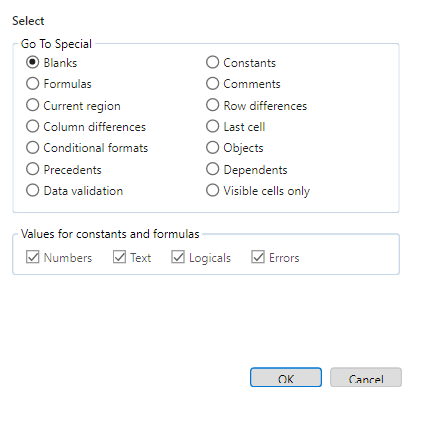
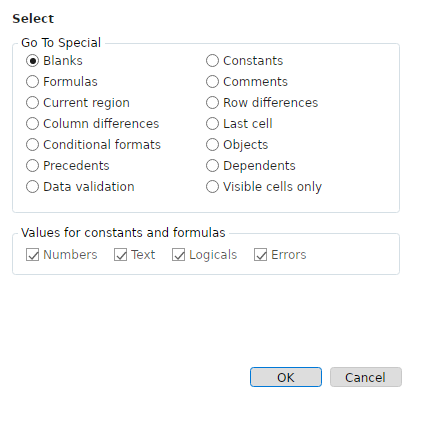
fix(freex): align go to special avalonia dialog

diff --git a/tests/FreeX.App.Avalonia.Tests/DialogVisualParitySourceTests.cs b/tests/FreeX.App.Avalonia.Tests/DialogVisualParitySourceTests.cs
@@ -24,11 +24,12 @@ public sealed class DialogVisualParitySourceTests
         source.Should().Contain("numbersBox.Opacity = enabled ? 1 : 0.7;");
         source.Should().Contain("AvaloniaCompactDialogChrome.ApplyCompactRadioButton(button, AvaloniaCompactDialogChrome.WindowsStyle);");
         source.Should().Contain("AvaloniaCompactDialogChrome.ApplyCompactCheckBox(numbersBox, AvaloniaCompactDialogChrome.WindowsStyle);");
-        source.Should().Contain("AvaloniaCompactDialogChrome.ApplyGroupBox(availableGroup);");
-        source.Should().Contain("AvaloniaCompactDialogChrome.ApplyGroupBox(valueTypeGroup);");
-        source.Should().Contain("Margin = new Thickness(0, 0, 0, 12),");
-        source.Should().Contain("Padding = new Thickness(8, 1, 8, 6),");
-        source.Should().Contain("Padding = new Thickness(0, 0, 0, 3),");
+        source.Should().Contain("AvaloniaCompactDialogChrome.ApplyGroupBox(availableGroup, borderBrush: Brush(213, 223, 229));");
+        source.Should().Contain("AvaloniaCompactDialogChrome.ApplyGroupBox(valueTypeGroup, borderBrush: Brush(213, 223, 229));");
+        source.Should().Contain("Margin = new Thickness(0, 3, 0, 13),");
+        source.Should().Contain("Padding = new Thickness(8, 1, 8, 9),");
+        source.Should().Contain("Padding = new Thickness(0, 0, 0, 4),");
+        source.Should().Contain("Spacing = 12,");
         source.Should().Contain("Margin = new Thickness(0, 0, 12, 1),");
         source.Should().Contain("Margin = new Thickness(12, 12, 30, 0),");
         source.Should().Contain("Margin = new Thickness(0, 0, 0, 7),");
@@ -37,6 +38,11 @@ public sealed class DialogVisualParitySourceTests
         source.Should().Contain("ApplyGoToSpecialButtonSize(cancelButton);");
         source.Should().Contain("var root = new DockPanel { Margin = new Thickness(0) };");
         source.Should().Contain("DockPanel.SetDock(buttonRow, Dock.Bottom);");
+
+        var chrome = File.ReadAllText(RepoFile("shared", "Free.Shared.Shell.Avalonia", "AvaloniaCompactDialogChrome.cs"));
+        chrome.Should().Contain("IBrush? borderBrush = null");
+        chrome.Should().Contain("Color.FromRgb(198, 215, 232)");
+        chrome.Should().Contain("groupBox.BorderBrush = borderBrush ?? GroupBoxBorderBrush;");
     }
 
     private static string RepoFile(params string[] parts)

diff --git a/src/FreeX.App.Avalonia/MainWindow.cs b/src/FreeX.App.Avalonia/MainWindow.cs
@@ -13811,7 +13811,7 @@ public sealed partial class MainWindow : Window
         var valueTypeRow = new StackPanel
         {
             Orientation = Orientation.Horizontal,
-            Spacing = 16,
+            Spacing = 12,
             Margin = new Thickness(8, 6, 8, 1),
             Children =
             {
@@ -13829,20 +13829,20 @@ public sealed partial class MainWindow : Window
         var availableGroup = new GroupBox
         {
             Header = "Go To Special",
-            Margin = new Thickness(0, 0, 0, 12),
-            Padding = new Thickness(8, 1, 8, 6),
+            Margin = new Thickness(0, 3, 0, 13),
+            Padding = new Thickness(8, 1, 8, 9),
             Content = choiceGrid,
         };
-        AvaloniaCompactDialogChrome.ApplyGroupBox(availableGroup);
+        AvaloniaCompactDialogChrome.ApplyGroupBox(availableGroup, borderBrush: Brush(213, 223, 229));
 
         var valueTypeGroup = new GroupBox
         {
             Header = "Values for constants and formulas",
             Margin = new Thickness(0),
-            Padding = new Thickness(0, 0, 0, 3),
+            Padding = new Thickness(0, 0, 0, 4),
             Content = valueTypeRow,
         };
-        AvaloniaCompactDialogChrome.ApplyGroupBox(valueTypeGroup);
+        AvaloniaCompactDialogChrome.ApplyGroupBox(valueTypeGroup, borderBrush: Brush(213, 223, 229));
 
         var content = new StackPanel
         {

diff --git a/shared/Free.Shared.Shell.Avalonia/AvaloniaCompactDialogChrome.cs b/shared/Free.Shared.Shell.Avalonia/AvaloniaCompactDialogChrome.cs
@@ -302,7 +302,8 @@ public static class AvaloniaCompactDialogChrome
 
     public static void ApplyGroupBox(
         GroupBox groupBox,
-        AvaloniaCompactDialogChromeStyle? style = null)
+        AvaloniaCompactDialogChromeStyle? style = null,
+        IBrush? borderBrush = null)
     {
         ArgumentNullException.ThrowIfNull(groupBox);
         style ??= WindowsStyle;
@@ -310,7 +311,7 @@ public static class AvaloniaCompactDialogChrome
         groupBox.FontFamily = style.FontFamily;
         groupBox.FontSize = style.FontSize;
         groupBox.Foreground = Brushes.Black;
-        groupBox.BorderBrush = GroupBoxBorderBrush;
+        groupBox.BorderBrush = borderBrush ?? GroupBoxBorderBrush;
         groupBox.BorderThickness = new Thickness(1);
         groupBox.HeaderTemplate = new FuncDataTemplate<object>((header, _) => new TextBlock
         {

diff --git a/docs/parity/avalonia-wpf-cross-app-dashboard.md b/docs/parity/avalonia-wpf-cross-app-dashboard.md
@@ -8,7 +8,7 @@ Generated by `tools/Generate-CrossAppParityDashboard.ps1` from existing generate
 
 | App | Primary evidence | Current generated state | Next slice |
 |---|---|---|---|
-| FreeX | Functional matrix, classifier, dialog inventory, dialog visual evidence, command surface | 531 functional commands; 473 command inventory parity; 0 Avalonia-missing; 0 real classified binding gaps; 48 catalog-backed pseudo-gallery rows (34 conditional-format, 10 font/border, 4 accounting-symbol); 57/57 dialog routes captured on WPF and Avalonia; 93 paired screenshot surface ids, 0 Avalonia-only ids, 0 WPF-only ids; 0 scale-aware dimension mismatches; 1 unresolved high-delta visual review candidates at triage score >= 0.4 (highest 0.409516); 32 raw PNG pixel dimension mismatches, of which 32 normalize by capture DPI. These are coverage/triage metrics, not a visual-parity claim. | Command/dialog route coverage is complete for the generated inputs: all 48 pseudo-gallery rows are catalog-backed in classifier evidence (34 conditional-format rows over 38 runtime catalog items, 10 font/border rows, and 4 accounting-symbol rows), and dialog screenshot evidence has 93 paired WPF/Avalonia manifest surface ids with 0 Avalonia-only ids. This is coverage and size-comparability evidence, not visual parity. The paired screenshots retain 1 unresolved high-delta visual review candidates at triage score >= 0.4 (highest 0.409516); keep those candidates separate from 0 scale-aware dimension mismatch rows and 32 raw PNG pixel dimension mismatches. |
+| FreeX | Functional matrix, classifier, dialog inventory, dialog visual evidence, command surface | 531 functional commands; 473 command inventory parity; 0 Avalonia-missing; 0 real classified binding gaps; 48 catalog-backed pseudo-gallery rows (34 conditional-format, 10 font/border, 4 accounting-symbol); 57/57 dialog routes captured on WPF and Avalonia; 93 paired screenshot surface ids, 0 Avalonia-only ids, 0 WPF-only ids; 0 scale-aware dimension mismatches; 1 unresolved high-delta visual review candidates at triage score >= 0.4 (highest 0.403055); 32 raw PNG pixel dimension mismatches, of which 32 normalize by capture DPI. These are coverage/triage metrics, not a visual-parity claim. | Command/dialog route coverage is complete for the generated inputs: all 48 pseudo-gallery rows are catalog-backed in classifier evidence (34 conditional-format rows over 38 runtime catalog items, 10 font/border rows, and 4 accounting-symbol rows), and dialog screenshot evidence has 93 paired WPF/Avalonia manifest surface ids with 0 Avalonia-only ids. This is coverage and size-comparability evidence, not visual parity. The paired screenshots retain 1 unresolved high-delta visual review candidates at triage score >= 0.4 (highest 0.403055); keep those candidates separate from 0 scale-aware dimension mismatch rows and 32 raw PNG pixel dimension mismatches. |
 | FreeW | Generated command inventory | 860 commands; 451 shared-profile; 0 actionable WPF-missing; 0 actionable Avalonia-missing; 361 profile-shape-only; 43 command-id aliases; 5 platform-only; 0 deferred | Backstage print/export, WordArt/watermark, table/page-composition, shape/object, SmartArt polygon, and chart visual proof now have paired WPF/Avalonia renderer contracts plus no-Word real-capture smoke runs; chart proof also validates shared chart data signatures across hosts. All-up no-Word runner fallback drift is classified as runner evidence hygiene, and the standalone no-Word runner now writes a post-summary readiness manifest with comparable scenario IDs, candidate Word PNG baseline paths, remaining blocker IDs, and an explicit no-authoritative-Word-PNG-parity claim. Next FreeW evidence slices are the same runs with real Word PNG baselines on a Word-capable host and broader Word-authoritative drawing/object/chart/table comparisons. |
 | FreeP | Generated command/evidence inventory | 193 commands; 191 shared-profile; 0 actionable WPF-missing; 0 actionable Avalonia-missing; 2 platform-only; 91 workflow evidence rows | Layout picker, table picker, rich inline table/text editing, shared visible list galleries, picture-bullet import/rendering plus picker/media authoring, slide-pane reorder, bottom New Slide, notes-page preview/PDF rendering, fixed-layout PDF connector, image, triangle-arrowhead, rotation, ellipse, picture-frame/crop/alpha/color-effect, shape-opacity export, and PDF visual-baseline readiness with WPF/Avalonia page-raster artifact patterns plus paired diff-report targets, export/backstage package-handoff, presenter recording backend contracts plus capture-adapter readiness and paired backend injection, captured PPTX media and generated WebVTT caption artifact authoring, focused PowerPoint-native caption package retention including external caption relationship metadata, native media/caption sidecar package depth, and caption relationship-id collision remapping, shared chart number/date label rendering plus edge/mixed manual-layout bounds, surface grid plus projected contour/wireframe/3-D surface geometry plus 3-D pie lower-depth rendering, stock OHLC capture-readiness metadata, and PowerPoint/WPF/Avalonia chart baseline capture readiness, SmartArt basic hierarchy plus vertical bullet list plus basic cycle plus radial cycle plus gear cycle plus text cycle plus basic, continuous block, segmented, chevron, alternating, funnel, circle, and arrow-ribbon process plus basic block list plus vertical box list plus stacked list plus basic pyramid plus bounded pictureCaptionList live layout plus basic/radial/stacked Venn and target-list relationship layouts plus shared outline reorder/promote/demote editing, data-part authoring, text-pane/cache-regeneration authoring, and matching thin WPF/Avalonia text-pane host controls with bounded keyboard routes, header/footer placeholder creation plus inherited layout/master geometry, title-slide suppression, fixed/auto date options, shared OMML fraction-type variants, matrix spacing/base alignment, delimiter grow semantics, accent/bar render-plan coverage, manual line breaks, boxed equation-array alignment points, transparent phantom spacing classes, pre-sub/superscript layout, matrix empty-cell placeholder handling, and group-character vertical justification, ink execution with repeated custom-show route retention, modern comments/review with shared mention candidate and insertion planning, accessibility/proofing workflow depth, animation-pane row/playback workflow evidence, paired real Windows microphone narration handoff, paired Windows camera handoff readiness, paired default no-COM camera handoff/package-target readiness without encoded-payload or PowerPoint-baseline claims, deterministic encoded camera media payload artifacts through host-specific PPTX package paths, and paired OS-backed unavailable-hardware/no-device recording evidence now have WPF/Avalonia no-COM evidence paths. Continue workflow-depth slices in live capture on real microphone/camera hardware, actual local default no-COM camera video encoding that produces non-empty mp4 payloads, calibrated chart-family acceptance thresholds and remaining type-specific decisions beyond the current PowerPoint baseline-depth/type/label captures, broader SmartArt layout families, remaining OMML constructs/alignment semantics and PowerPoint-authoritative math visual-baseline coverage, broader real-deck PowerPoint-native media/caption baselines, actual PowerPoint PDF/PNG capture and calibrated PDF visual diffs on a COM-capable host, and PowerPoint-authoritative animation-pane visual/playback baselines. |
 
@@ -18,7 +18,7 @@ This is a deterministic human-review queue, not a pass/fail result. The threshol
 
 | Surface id | Triage score | Logical dimensions match | Dimension bucket | Review status |
 |---|---:|---|---|---|
-| dialog.GoToSpecial | 0.409516 | True | none | unresolved visual review candidate |
+| dialog.GoToSpecial | 0.403055 | True | none | unresolved visual review candidate |
 
 ## Source Files
 

diff --git a/docs/parity/dialog-visual-evidence-summary.md b/docs/parity/dialog-visual-evidence-summary.md
@@ -48,7 +48,7 @@ Equal logical dimensions, nonblank PNGs, and paired manifest ids establish evide
 
 | Surface id | Score | Logical dimensions match | Dimension bucket | Expected-size mismatch | Review status | Review reason |
 | --- | ---: | --- | --- | --- | --- | --- |
-| dialog.GoToSpecial | 0.410 | True | none | False | unresolved visual review candidate | High image delta requires paired WPF/Avalonia visual review; equal dimensions do not resolve it. |
+| dialog.GoToSpecial | 0.403 | True | none | False | unresolved visual review candidate | High image delta requires paired WPF/Avalonia visual review; equal dimensions do not resolve it. |
 
 ## Scale-Aware Dimension Mismatch Classification
 
@@ -63,7 +63,7 @@ Outliers are ranked by a deterministic triage score: normalized 32x32 ARGB sampl
 
 | Surface id | WPF logical size | Avalonia logical size | Raw PNG sizes | Bucket | Evidence flag | Score | Sample delta | Luma delta | Non-bg delta |
 | --- | ---: | ---: | --- | --- | --- | ---: | ---: | ---: | ---: |
-| dialog.GoToSpecial | 430x438 | 430x438 | 430x438 px @ 96 DPI vs 430x438 px @ 96 DPI |  |  | 0.410 | 0.166 | 0.127 | 0.116 |
+| dialog.GoToSpecial | 430x438 | 430x438 | 430x438 px @ 96 DPI vs 430x438 px @ 96 DPI |  |  | 0.403 | 0.164 | 0.126 | 0.113 |
 | dialog.PivotValueFieldSettings | 430x430 | 430x430 | 430x430 px @ 96 DPI vs 430x430 px @ 96 DPI |  |  | 0.399 | 0.163 | 0.125 | 0.111 |
 | dialog.PivotValueFieldSettings.SummarizeValuesBy | 430x430 | 430x430 | 430x430 px @ 96 DPI vs 430x430 px @ 96 DPI |  |  | 0.399 | 0.163 | 0.125 | 0.111 |
 | dialog.PivotValueFieldSettings.ShowValuesAs | 430x430 | 430x430 | 430x430 px @ 96 DPI vs 430x430 px @ 96 DPI |  |  | 0.399 | 0.163 | 0.125 | 0.110 |
@@ -122,7 +122,7 @@ These rows have a DPI-normalized checked-in PNG size that disagrees with the dia
 | dialog.GoalSeek | dialog.GoalSeek.png | 380x210 | 380x210 px @ 96 DPI | True | dialog.GoalSeek.png | 380x210 | 380x210 px @ 96 DPI | True | True | 0.054 |
 | dialog.GoalSeekStatus | dialog.GoalSeekStatus.png | 380x190 | 380x190 px @ 96 DPI | True | dialog.GoalSeekStatus.png | 380x190 | 380x190 px @ 96 DPI | True | True | 0.089 |
 | dialog.GoTo | dialog.GoTo.png | 420x320 | 630x480 px @ 144 DPI | True | dialog.GoTo.png | 420x320 | 420x320 px @ 96 DPI | True | True | 0.110 |
-| dialog.GoToSpecial | dialog.GoToSpecial.png | 430x438 | 430x438 px @ 96 DPI | True | dialog.GoToSpecial.png | 430x438 | 430x438 px @ 96 DPI | True | True | 0.410 |
+| dialog.GoToSpecial | dialog.GoToSpecial.png | 430x438 | 430x438 px @ 96 DPI | True | dialog.GoToSpecial.png | 430x438 | 430x438 px @ 96 DPI | True | True | 0.403 |
 | dialog.InsertHyperlink | dialog.InsertHyperlink.png | 560x300 | 840x450 px @ 144 DPI | True | dialog.InsertHyperlink.png | 560x300 | 560x300 px @ 96 DPI | True | True | 0.095 |
 | dialog.InsertSlicer | dialog.InsertSlicer.png | 410x270 | 615x405 px @ 144 DPI | True | dialog.InsertSlicer.png | 410x270 | 410x270 px @ 96 DPI | True | True | 0.046 |
 | dialog.InsertTimeline | dialog.InsertTimeline.png | 410x270 | 615x405 px @ 144 DPI | True | dialog.InsertTimeline.png | 410x270 | 410x270 px @ 96 DPI | True | True | 0.040 |
